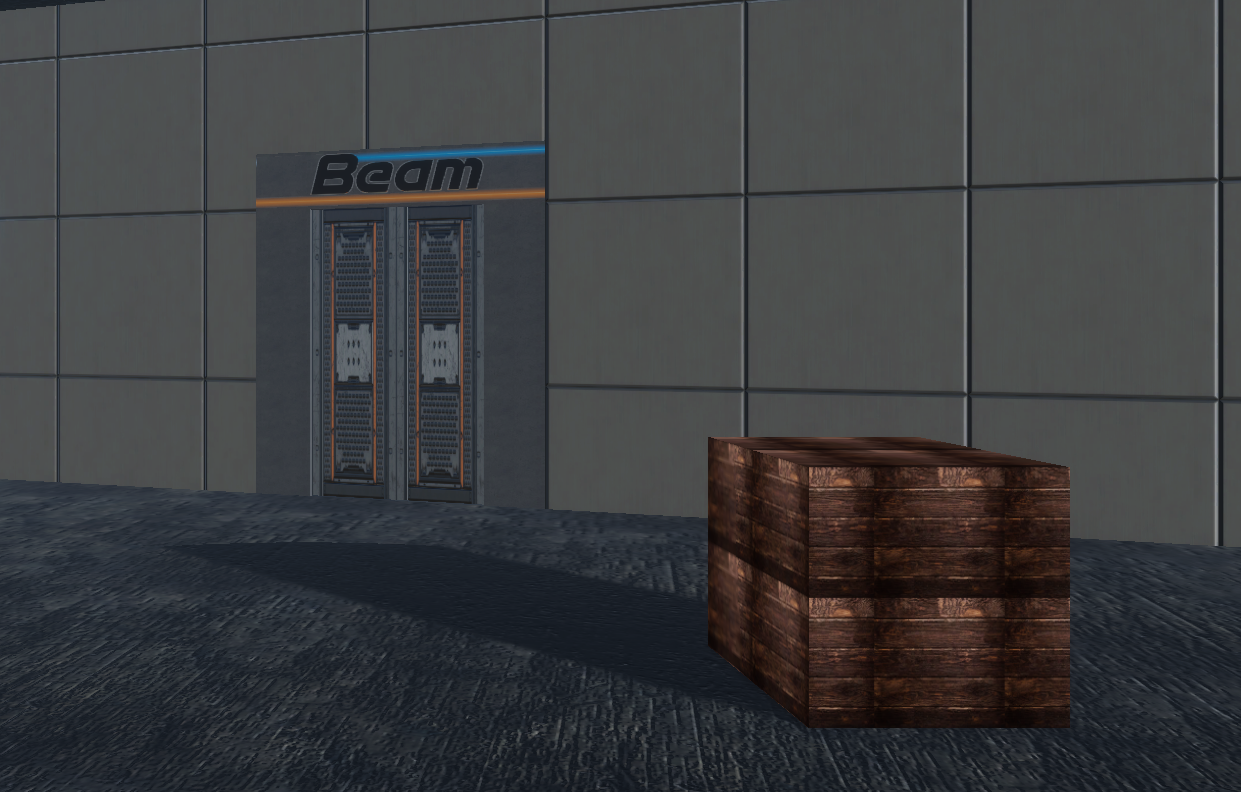
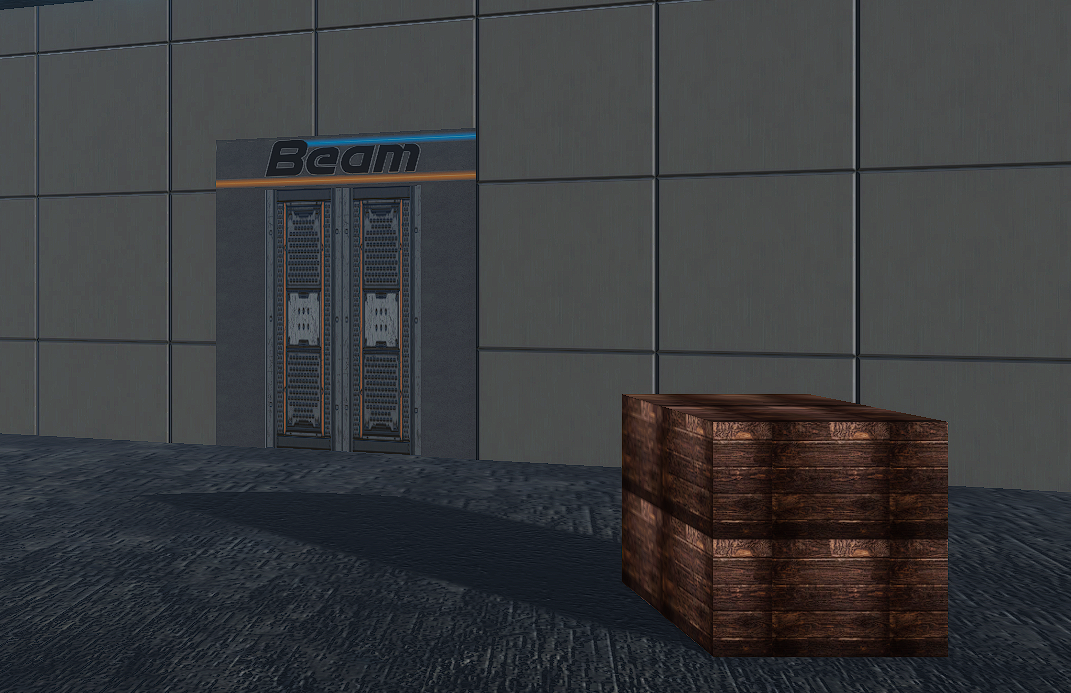
Added a bunch of new projects for my portfolio

diff --git a/src/data/Projects/BloodFavor.ts b/src/data/Projects/BloodFavor.ts
@@ -3,8 +3,8 @@ import ProjectData from '@/data/ProjectData.ts'
 export default new ProjectData("blood-favor", "A current project: Blood Favor", "img/projects/BloodFavor-icon.PNG", 
 `
 <div class="paragraph">
- <strong>Blood Favor</strong> is currently being developed and led by <a href=https://www.drewbusch.com/>Drew Busch</a> as part of VGDev's Fall 2022 Lineup.
- I am the gameplay systems sublead ("Technical Lead") for the project.<br><br>
+ <strong>Blood Favor</strong> was developed and led by <a href=https://www.drewbusch.com/>Drew Busch</a> as part of VGDev's Fall 2022 Lineup.
+ I was the gameplay systems sublead ("Technical Lead") for the project and was responsible for major parts of the procedural level generator system that the game depended on.<br><br>
 </div>
 
 <div class = "paragraph">
@@ -14,13 +14,13 @@ Project Info:
 <li>Genre: 3D First Person Shooter; Roguelike</li>
 <li>Engine: Unity/C#</li>
 <li>Team Size: 60+</li>
-<li>Contribution: Gameplay Systems Sublead, Tools Programmer</li>
+<li>Contribution: Gameplay Systems Sublead, Tools Programmer, Procedural Generation</li>
 <li>Timeframe: Fall 2022</li>
 </ul>
 </div>
 
 <div class="notice">
-No demo for the game is currently available since it is in ongoing development. A playable demo will be available at the start of December 2022.
+<a href=https://drive.google.com/drive/u/0/folders/1LXZSTCk6FtoOHlNmT2b0CPPvX6QOnHRe>Play the Game Here</a>
 </div>
 
 <div class = "paragraph">
@@ -51,5 +51,22 @@ injecting extra or secret rooms branching from the root path. One of the difficu
 A separate algorithm (which I also implemented) traverses the graph and cuts out each loop as a composite. Rooms are connected into composites, 
 and then composites are connected together to form the whole level.
 </div>
+
+<!--
+<div class="paragraph center">
+    <div style="width:100%;height:0px;position:relative;padding-bottom:40%;">
+        <iframe src="img/projects/BloodFavor/7.png" frameborder="0" width="30%" height="30%" allowfullscreen style="width:60%;height:60%;position:absolute;left:0px;top:0px;overflow:hidden;"></iframe>
+    </div>
+</div>
+
+<div class="paragraph center">
+    <div style="width:100%;height:0px;position:relative;padding-bottom:40%;">
+        <iframe src="img/projects/BloodFavor/4.png" frameborder="0" width="30%" height="30%" allowfullscreen style="width:100%;height:100%;position:absolute;left:0px;top:0px;overflow:hidden;"></iframe>
+    </div>
+</div>
+-->
+
+</div>
+
 `
 , "#23bd69")

diff --git a/src/data/Projects/Beam.ts b/src/data/Projects/Beam.ts
@@ -1,10 +1,13 @@
 import ProjectData from '@/data/ProjectData.ts'
 
-export default new ProjectData("beam", "A project I led: Beam", "img/projects/Beam-logo.png", 
+export default new ProjectData("beam", "A project I led: Beam", "img/projects/Beam-start.png", 
 `
 <div class="paragraph">
  <strong>Beam</strong> is a 3D first person puzzle game led by <a href="bowers-l.github.io">me</a> and developed in Fall 2021 by the Georgia Tech VGDev club. I came up with the initial design and prototype, pitched the game to 
- the club, and was the project lead during development. 
+ the club, and was the project lead during development.<br><br>
+ 
+ This was my first time leading a team for a game and really tested my leadership and production skills, putting me in a position that (at the time) I was not used to. Since then I have
+ been technical sublead for Blood Favor, and most recently project co-lead/programming lead for Dive
 </div>
 
 <div class = "paragraph">

diff --git a/src/views/Home.vue b/src/views/Home.vue
@@ -18,7 +18,8 @@
     </div>
 
     <div>
-        <h2 style="text-align: center"><b>Check out my full list of <router-link to="/game-projects">Projects</router-link></b></h2>
+        <h2 style="text-align: center"><b>Check out my full list of <router-link to="/game-projects">Games</router-link> and <router-link to="/game-jams">Game Jams</router-link>, <br>
+        as well as <router-link to="/engineless">Game Engine and Graphics Projects</router-link></b></h2>
     </div>
 
     <h3 style="text-align: center"><b>"Let your ambition be unmatched, and your passion relentless, <br>
@@ -51,11 +52,6 @@ export default Vue.extend({
         justify-content: center;
         padding: 10px;
         background-color:rgba(0.5, 0.5, 0.5, 0.5);
-    }
-
-    .paragraph {
-      text-align: center;
-      font-size: 18px;
     }
 
     .project-list {

diff --git a/src/data/Projects/DoggyDisk.ts b/src/data/Projects/DoggyDisk.ts
@@ -1,6 +1,6 @@
 import ProjectData from '@/data/ProjectData.ts'
 
-export default new ProjectData("doggy-disk", "Doggy Disk", "img/projects/DoggyDisk-icon.webp", `
+export default new ProjectData("doggy-disk", "Doggy Disk: VGDev Jam 2021", "img/projects/DoggyDisk-icon.webp", `
 <div class="paragraph">
     <strong>Doggy Disk</strong> was developed in 48 hours as part of the Georgia Tech VGDev Summer Game Jam with the theme "All Around You".
 </div>
@@ -10,7 +10,7 @@ export default new ProjectData("doggy-disk", "Doggy Disk", "img/projects/DoggyDi
 <li>Engine: Unity/C#</li>
 <li>Team Size: 5</li>
 <li>Contribution: Tower Design, Programming, and Visual Effects</li>
-<li>Timeframe: Summer 2021</li>
+<li>Timeframe: July 2021, 48 hours</li>
 </ul>
 </div>
 

diff --git a/src/data/GameProjectsData.ts b/src/data/GameProjectsData.ts
@@ -1,19 +1,20 @@
 import ProjectData from '@/data/ProjectData.ts'
 
+import Dive from '@/data/Projects/Dive.ts'
 import Slider from '@/data/Projects/Slider.ts'
 import BloodFavor from '@/data/Projects/BloodFavor.ts'
+import Barkane from '@/data/Projects/Barkane.ts'
 import Beam from '@/data/Projects/Beam.ts'
 
 import GunneMonke from '@/data/Projects/GunneMonke.ts'
 import Beatdown from '@/data/Projects/Beatdown.ts'
-import OneWayOut from '@/data/Projects/OneWayOut.ts'
-import TetrisPi from '@/data/Projects/TetrisPi.ts'
 
 export default [
-    BloodFavor,
+    Dive,
     Slider,
     Beam,
+    Barkane,
+    BloodFavor,
     Beatdown,
     GunneMonke,
-    OneWayOut,
 ];

diff --git a/src/views/Engineless.vue b/src/views/Engineless.vue
@@ -2,7 +2,7 @@
   <div class="container">
 
     <div style="margin-bottom: 30px;">
-        <h2>I have participated in a few game jams, primarily on larger teams (for a jam).</h2>
+        <h3>These are games or graphics projects that I have made (mostly individually) without using a game engine!</h3>
     </div>
 
     <div style="margin-left: 50px;">
@@ -14,7 +14,7 @@
 <script lang="ts">
 import Vue from "vue";
 import ProjectsList from "@/components/ProjectsList.vue";
-import gameJams from "@/data/GameJamData.ts";
+import gameJams from "@/data/EnginelessData.ts";
 
 export default Vue.extend({
   name: "GameProjects",

diff --git a/src/data/Projects/LessTris.ts b/src/data/Projects/LessTris.ts
@@ -1,0 +1,19 @@
+import ProjectData from '@/data/ProjectData.ts'
+
+export default new ProjectData("less-tris", "Cpp-Tris/GBA-Tris/PI-Tris", "img/projects/SpeakEasy-TitleColor.png", 
+`
+Coming Soon ...
+
+<ul>
+<li>Genre: Block Falling Game</li>
+<li>Engine: C++ OpenGL, Game Boy Advance, and Java Processing + Raspberry PI</li>
+<li>Team Size: 2</li>
+<li>Contribution: Everything (Except some programming in the Raspberry PI version)</li>
+<li>Timeframe:
+<ul>
+    <li>OpenGL: Fall 2022
+    <li>GBA: Spring-Summer 2020
+    <li>Java Processing: Spring 2019
+</ul>
+`
+, "#23bd69")

diff --git a/src/data/Projects/OutOfPocket.ts b/src/data/Projects/OutOfPocket.ts
@@ -1,6 +1,15 @@
 import ProjectData from '@/data/ProjectData.ts'
 
-export default new ProjectData("out-of-pocket", "Out Of Pocket", "img/projects/OutOfPocket-logo.PNG", 
+export default new ProjectData("out-of-pocket", "Out Of Pocket: GMTK 2022", "img/projects/OutOfPocket-logo.PNG", 
 `
+Coming Soon ...
+
+<ul>
+<li>Genre: Satirical Narrative</li>
+<li>Engine: Unity/C#</li>
+<li>Team Size: 15</li>
+<li>Contribution: Gameplay System Programming</li>
+<li>Timeframe: July 2022, 48 hours</li>
+</ul>
 `
 , "#23bd69")

diff --git a/src/data/Projects/SpeakEasy.ts b/src/data/Projects/SpeakEasy.ts
@@ -1,6 +1,15 @@
 import ProjectData from '@/data/ProjectData.ts'
 
-export default new ProjectData("speak-easy", "Speak Easy", "img/projects/SpeakEasy.PNG", 
+export default new ProjectData("speak-easy", "Speak Easy: GGJ 2023", "img/projects/SpeakEasy-TitleColor.png", 
 `
+Coming Soon ...
+
+<ul>
+<li>Genre: Narrative Rhythm Game</li>
+<li>Engine: Unity/C#</li>
+<li>Team Size: 8</li>
+<li>Contribution: Gameplay System Programming</li>
+<li>Timeframe: February 2023, 48 hours</li>
+</ul>
 `
 , "#23bd69")

diff --git a/src/views/GameProjects.vue b/src/views/GameProjects.vue
@@ -3,6 +3,7 @@
 
     <div style="margin-bottom: 30px;">
         <h2 style="text-align: center">This is a list of Games I have worked on, whether currently or previously</h2>
+        <h3 style="text-align: center">Most of these games were made in Unity. I have a <router-link to="/engineless">separate page</router-link> with games made using custom or low-level tools (aka C++).</h3>
     </div>
 
     <div style="margin-left: 50px;">

diff --git a/src/data/Projects/RayLTracer.ts b/src/data/Projects/RayLTracer.ts
@@ -1,0 +1,15 @@
+import ProjectData from '@/data/ProjectData.ts'
+
+export default new ProjectData("ray-l-tracer", "Ray L Tracer", "img/projects/SpeakEasy-TitleColor.png", 
+`
+Coming Soon ...
+
+<ul>
+<li>Genre: None (Not a Game, but could make one in it.)</li>
+<li>Engine: C++ OpenGL, Java Processing</li>
+<li>Team Size: 1</li>
+<li>Contribution: Everything</li>
+<li>Timeframe: Spring 2023-Current</li>
+</ul>
+`
+, "#23bd69")

diff --git a/src/data/Projects/Dive.ts b/src/data/Projects/Dive.ts
@@ -1,0 +1,16 @@
+import ProjectData from '@/data/ProjectData.ts'
+
+export default new ProjectData("dive", "A Project I'm Leading: Dive", "img/projects/Dive-logo.png", 
+`
+<div>
+Coming Soon ...
+<ul>
+<li>Genre: 2D Puzzle Platformer</li>
+<li>Engine: Unity/C#</li>
+<li>Team Size: 20+</li>
+<li>Contribution: Project Colead, Programming Lead, Tech Artist</li>
+<li>Timeframe: Spring 2023</li>
+</ul>
+</div>
+`
+, "#23bd69")
